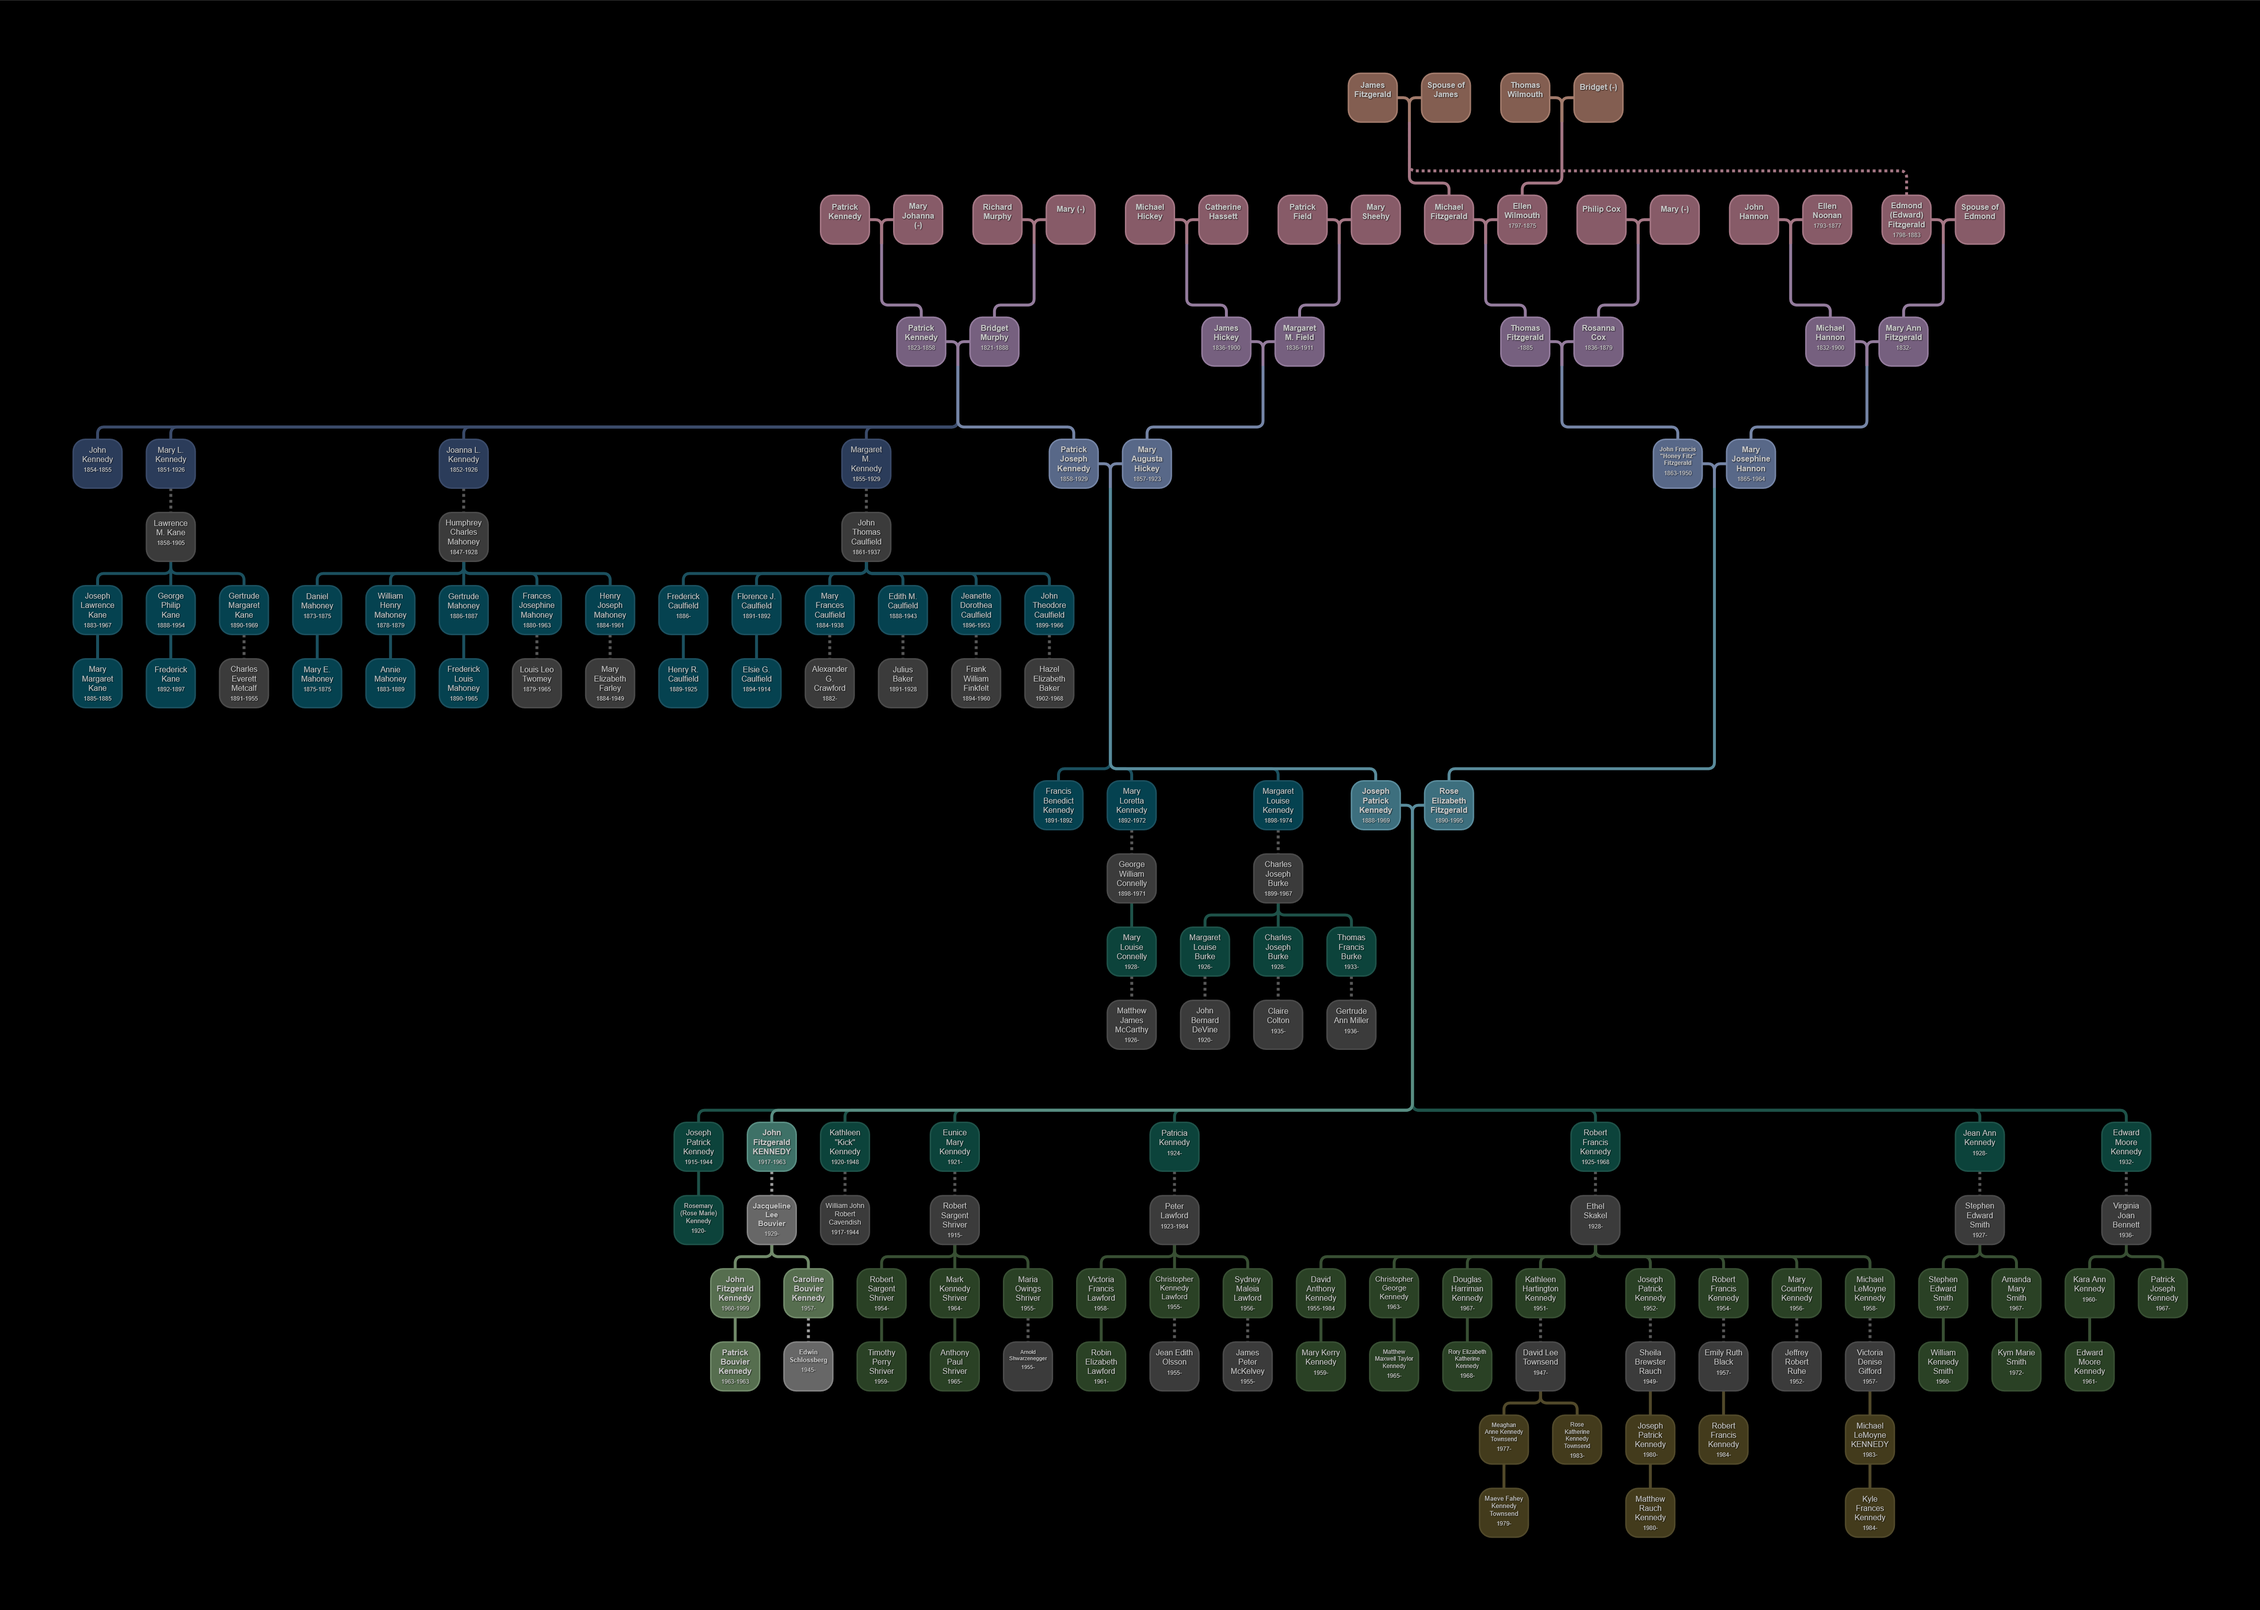
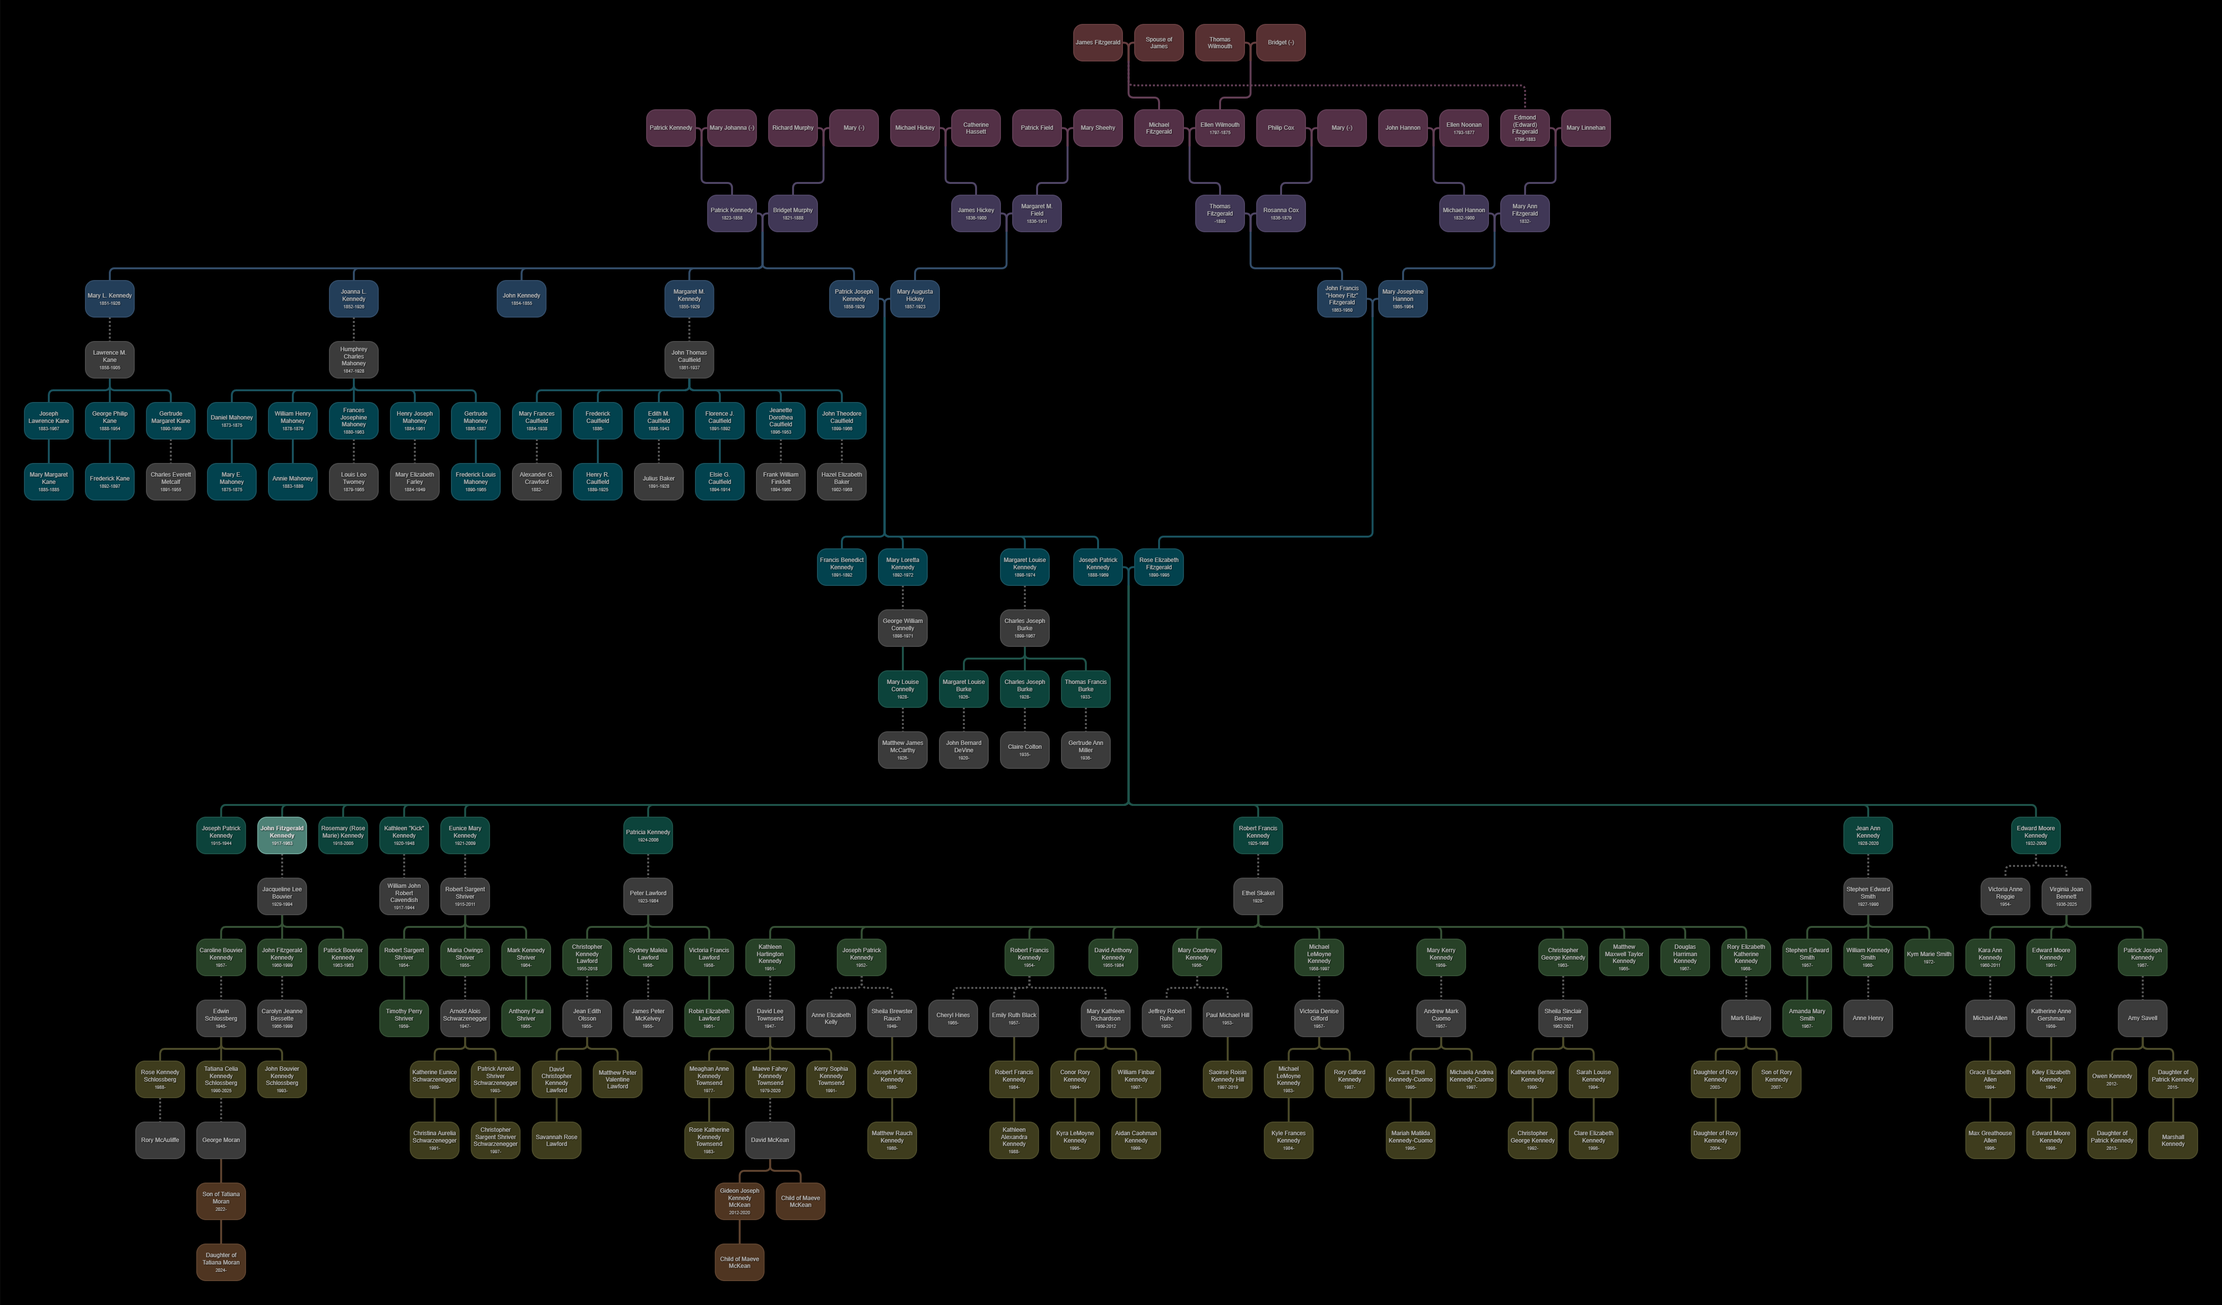
Updated README

diff --git a/index.html b/index.html
@@ -397,7 +397,7 @@
                                 <input type="text" id="connection-filter-text" class="filter-input" placeholder="Type to filter names...">
                                 <button id="clear-connection-filter" type="button" class="clear-filter-button">&#10005;</button>
                             </div>
-                            <select id="connection-select" size="10"></select>
+                            <select id="connection-select" size="5"></select>
                         </div>
                     </p>
                     <p>

diff --git a/README.md b/README.md
@@ -45,7 +45,7 @@ Here are a few examples trees to demonstrate some of the program's capabilities:
 
 | Root&nbsp;Person | People&nbsp;Shown | Family&nbsp;Tree |
 |:----------------:|:-----------------:|:----------------:|
-| John&nbsp;Fitzgerald&nbsp;Kennedy | 145 People   | ![John Fitzgerald Kennedy](readme/John-Fitzgerald-Kennedy.png) |
+| John&nbsp;Fitzgerald&nbsp;Kennedy | 202 People   | ![John Fitzgerald Kennedy](readme/John-Fitzgerald-Kennedy.png) |
 | Bart&nbsp;Simpson                 | 10 People    | ![Bart Simpson](readme/Bart-Simpson.png) |
 | Johann&nbsp;Sebastian&nbsp;Bach   | 32 People    | ![Johann Sebastian Bach](readme/Johann-Sebastian-Bach.png) |
 | Me                                | 4,798 People | ![My Family Tree](readme/Erik-Michael-Shelley.svg) |
@@ -114,7 +114,16 @@ The example below contains the same people as the previous example in the **leve
 | ------ | ----------- |
 | ![](src/png/icons8-expand-48.png) | Expand all tree styling sections. |
 | ![](src/png/icons8-collapse-48.png) | Collapse all tree styling sections. |
-| Presets | Select a preset to quickly change a number of the style settings. Some tree content settings may be changed as well. |
+
+### Preset
+| Option | Description |
+| ------ | ----------- |
+| Preset | Select a preset to quickly change a number of the style settings and tree content. Use one of the five buttons below to change the presets. Your changes will only persist across sessions if you overwrite src/js/presets.js with the new file that gets downloaded after you click OK. |
+| ![](src/png/icons8-add-48-gold.png) | Create a new preset |
+| ![](src/png/icons8-save-48-gold.png) | Save changes to the current preset |
+| ![](src/png/icons8-rename-48-gold.png) | Rename the current preset |
+| ![](src/png/icons8-synchronize-48-gold.png) | Reload the current preset |
+| ![](src/png/icons8-remove-48-gold.png) | Delete the current preset |
 
 ### Size
 | Option | Description |
@@ -123,6 +132,7 @@ The example below contains the same people as the previous example in the **leve
 | Box Y | Change this value to control thet height of the nodes. Click the resize icon <img src="src/png/icons8-resize-48-gold.png" width="18" height="18"> to use thhe height needed to fit the text. |
 | Borders | Change this value to control the size of the node borders. |
 | Links | Change this value to control how thick the links are between nodes. |
+| Highlighted Links | Change this value to control how thick the highlighted links are between nodes. |
 | Font | Change this value to control the size of the text in the nodes. |
 
 ### Spacing
@@ -132,6 +142,7 @@ The example below contains the same people as the previous example in the **leve
 | Boxes Y | Change this value to control the vertical space between nodes. |
 | Levels Y | Change this value to control the vertical space between levels. |
 | Tree Padding | Change this value to control the padding around the tree. |
+| Vertical Text Alignment | Choose whether text is aligned to the **Top** / **Middle** / **Bottom**. |
 
 ### Color
 | Option | Description |
@@ -140,6 +151,7 @@ The example below contains the same people as the previous example in the **leve
 | Saturation | Change this value to control how saturated the colors of the nodes are. |
 | Brightness | Change this value to control the brightness of the tree nodes and links. |
 | Text | Change this value to control how bright the text is in the nodes. |
+| Highlighted Text | Change this value to control how bright the highlighted text is in the nodes. |
 | Text Shadow | Click this checkbox to enable text shadows. |
 | Transparent Background | Click this checkbox to use a transparent background for the tree. |
 | Background Color | Click this control to choose a background color. The color will only be used if the Transparent Background checkbox is not checked. |
@@ -147,7 +159,7 @@ The example below contains the same people as the previous example in the **leve
 ### Highlights (%)
 | Option | Description |
 | ------ | ----------- |
-| Pedigree | Change this value to control if thte pedigree nodes (direct ancestors and descendants of the root person) are darker or brighter than everyone else. 0% is black, 100% is the same brightness as everyone else, and 200% is twice as bright as everyone else. Click the X icon <img src="src/png/icons8-cancel-48-gold.png" width="18" height="18"> to use 100% for no highlighting. |
+| Special | Change this value to control if the desired nodes are darker or brighter than everyone else. 0% is black, 100% is the same brightness as everyone else, and 200% is twice as bright as everyone else. Click the X icon <img src="src/png/icons8-cancel-48-gold.png" width="18" height="18"> to use 100% for no highlighting.<br />- **None**: No nodes are highlighted.<br />- **Root**: The root node is highlighted.<br />- **Pedigree**: The ancestors and descendants of root are highlighted.<br />- **Connection**: Choose a second node from the tree and the path connecting them will be highlighted. |
 | Borders | Change this value to control if the node borders are darker or brighter than the nodes. 0% is black, 100% is the same brightness as the nodes, and 200% is twice as bright as the nodes. Click the X icon <img src="src/png/icons8-cancel-48-gold.png" width="18" height="18"> to use 100% for no highlighting. |
 | Links | Change this value to control if the links are darker or brighter than the nodes. 0% is black, 100% is the same brightness as the nodes, and 200% is twice as bright as the nodes. Click the X icon <img src="src/png/icons8-cancel-48-gold.png" width="18" height="18"> to use 100% for no highlighting. |
 | In-Law Links | Change this value to control if the in-law links are darker or brighter than the nodes. 0% is black, 100% is the same brightness as the nodes, and 200% is twice as bright as the nodes. Click the X icon <img src="src/png/icons8-cancel-48-gold.png" width="18" height="18""> to use 100% for no highlighting. |
@@ -180,27 +192,40 @@ The page background came from this excellent source:
 - [Free SVG Backgrounds and Patterns by SVGBackgrounds.com](https://www.svgbackgrounds.com/set/free-svg-backgrounds-and-patterns/)
 
 The icons are from icons8 > [liquid glass](https://icons8.com/icons/all--style-liquid-glass).
-- ![](src/png/icons8-menu-48.png) <a target="_blank" href="https://icons8.com/icon/0mAtpPoNoAEd/menu">Menu</a> icon by <a target="_blank" href="https://icons8.com">Icons8</a>
-- ![](readme/icons8-help-48.png) <a target="_blank" href="https://icons8.com/icon/osnYseY0Xola/help">Help</a> icon by <a target="_blank" href="https://icons8.com">Icons8</a>
-- ![](readme/icons8-browse-folder-48.png) <a target="_blank" href="https://icons8.com/icon/lSqvuA59KBiX/browse-folder">Browse Folder</a> icon by <a target="_blank" href="https://icons8.com">Icons8</a>
-- ![](readme/icons8-cloud-folder-48.png) <a target="_blank" href="https://icons8.com/icon/kd6S8UCs78vy/cloud-folder">Cloud Folder</a> icon by <a target="_blank" href="https://icons8.com">Icons8</a>
-- ![](readme/icons8-top-48.png) <a target="_blank" href="https://icons8.com/icon/Kxg3ddPq2XL6/upward-arrow">Top</a> icon by <a target="_blank" href="https://icons8.com">Icons8</a>
-- ![](src/png/icons8-expand-48.png) <a target="_blank" href="https://icons8.com/icon/1jinb9WZokXK/expand">Expand</a> icon by <a target="_blank" href="https://icons8.com">Icons8</a>
-- ![](src/png/icons8-collapse-48.png) <a target="_blank" href="https://icons8.com/icon/oXQVibFkysZg/collapse">Collapse</a> icon by <a target="_blank" href="https://icons8.com">Icons8</a>
-- ![](readme/icons8-resize-48.png) <a target="_blank" href="https://icons8.com/icon/PjMvq8ClC94p/resize">Resize</a> icon by <a target="_blank" href="https://icons8.com">Icons8</a>
-- ![](readme/icons8-cancel-48.png) <a target="_blank" href="https://icons8.com/icon/DXECg4JU1n2x/cancel">Cancel</a> icon by <a target="_blank" href="https://icons8.com">Icons8</a>
-- ![](readme/icons8-save-48.png) <a target="_blank" href="https://icons8.com/icon/3VO7xUNfMILv/save">Save</a> icon by <a target="_blank" href="https://icons8.com">Icons8</a>
-- ![](readme/icons8-resize-vertical-48.png) <a target="_blank" href="https://icons8.com/icon/GiGSyDPA8118/resize-vertical">Resize Vertical</a> icon by <a target="_blank" href="https://icons8.com">Icons8</a>
-- ![](readme/icons8-resize-horizontal-48.png) <a target="_blank" href="https://icons8.com/icon/GXzkVzhz4pZm/resize-horizontal">Resize Horizontal</a> icon by <a target="_blank" href="https://icons8.com">Icons8</a>
-- ![](readme/icons8-enlarge-48.png) <a target="_blank" href="https://icons8.com/icon/bcZmJfs5prDE/enlarge">Enlarge</a> icon by <a target="_blank" href="https://icons8.com">Icons8</a>
+<p>
 
-- ![](readme/icons8-privacy-48.png) <a target="_blank" href="https://icons8.com/icon/KjQkA7JG7lDE/security-shield">Privacy</a> icon by <a target="_blank" href="https://icons8.com">Icons8</a>
-- ![](readme/icons8-complete-48.png) <a target="_blank" href="https://icons8.com/icon/hJniet82Bq1U/approval">Complete</a> icon by <a target="_blank" href="https://icons8.com">Icons8</a>
-- ![](readme/icons8-drag-48.png) <a target="_blank" href="https://icons8.com/icon/jQhdjj6cuiwg/drag">Drag</a> icon by <a target="_blank" href="https://icons8.com">Icons8</a>
-- ![](readme/icons8-customize-48.png) <a target="_blank" href="https://icons8.com/icon/b6eLSBnQN1Xl/slider">Customize</a> icon by <a target="_blank" href="https://icons8.com">Icons8</a>
-- ![](readme/icons8-filter-48.png) <a target="_blank" href="https://icons8.com/icon/lIPVBw1hMKkS/filter">Filter</a> icon by <a target="_blank" href="https://icons8.com">Icons8</a>
-- ![](readme/icons8-layout-48.png) <a target="_blank" href="https://icons8.com/icon/I9FnHLOemrZ8/template">Layout</a> icon by <a target="_blank" href="https://icons8.com">Icons8</a>
-- ![](readme/icons8-laptop-48.png) <a target="_blank" href="https://icons8.com/icon/vHaL5ib6nGhu/laptop-with-cursor">Laptop</a> icon by <a target="_blank" href="https://icons8.com">Icons8</a>
+![Add](readme/icons8-add-48.png) 
+![Browse Folder](readme/icons8-browse-folder-48.png)
+![Cancel](readme/icons8-cancel-48.png)
+![Cloud Folder](readme/icons8-cloud-folder-48.png)
+![Collapse](src/png/icons8-collapse-48.png)
+![Complete](readme/icons8-complete-48.png)
+![Customize](readme/icons8-customize-48.png)
+![Drag](readme/icons8-drag-48.png)
+
+<br />
+
+![Enlarge](readme/icons8-enlarge-48.png)
+![Expand](src/png/icons8-expand-48.png)
+![Filter](readme/icons8-filter-48.png)
+![Help](readme/icons8-help-48.png)
+![Laptop](readme/icons8-laptop-48.png)
+![Layout](readme/icons8-layout-48.png)
+![Privacy](readme/icons8-privacy-48.png)
+![Remove](readme/icons8-remove-48.png)
+
+<br />
+
+![Rename](readme/icons8-rename-48.png)
+![Resize](readme/icons8-resize-48.png)
+![Resize Horizontal](readme/icons8-resize-horizontal-48.png)
+![Resize Vertical](readme/icons8-resize-vertical-48.png)
+![Save](readme/icons8-save-48.png)
+![Synchronize](readme/icons8-synchronize-48.png)
+![Top](readme/icons8-top-48.png)
+![Menu](src/png/icons8-menu-48.png) 
+
+</p>
 
 
 ## Similar Repositories
